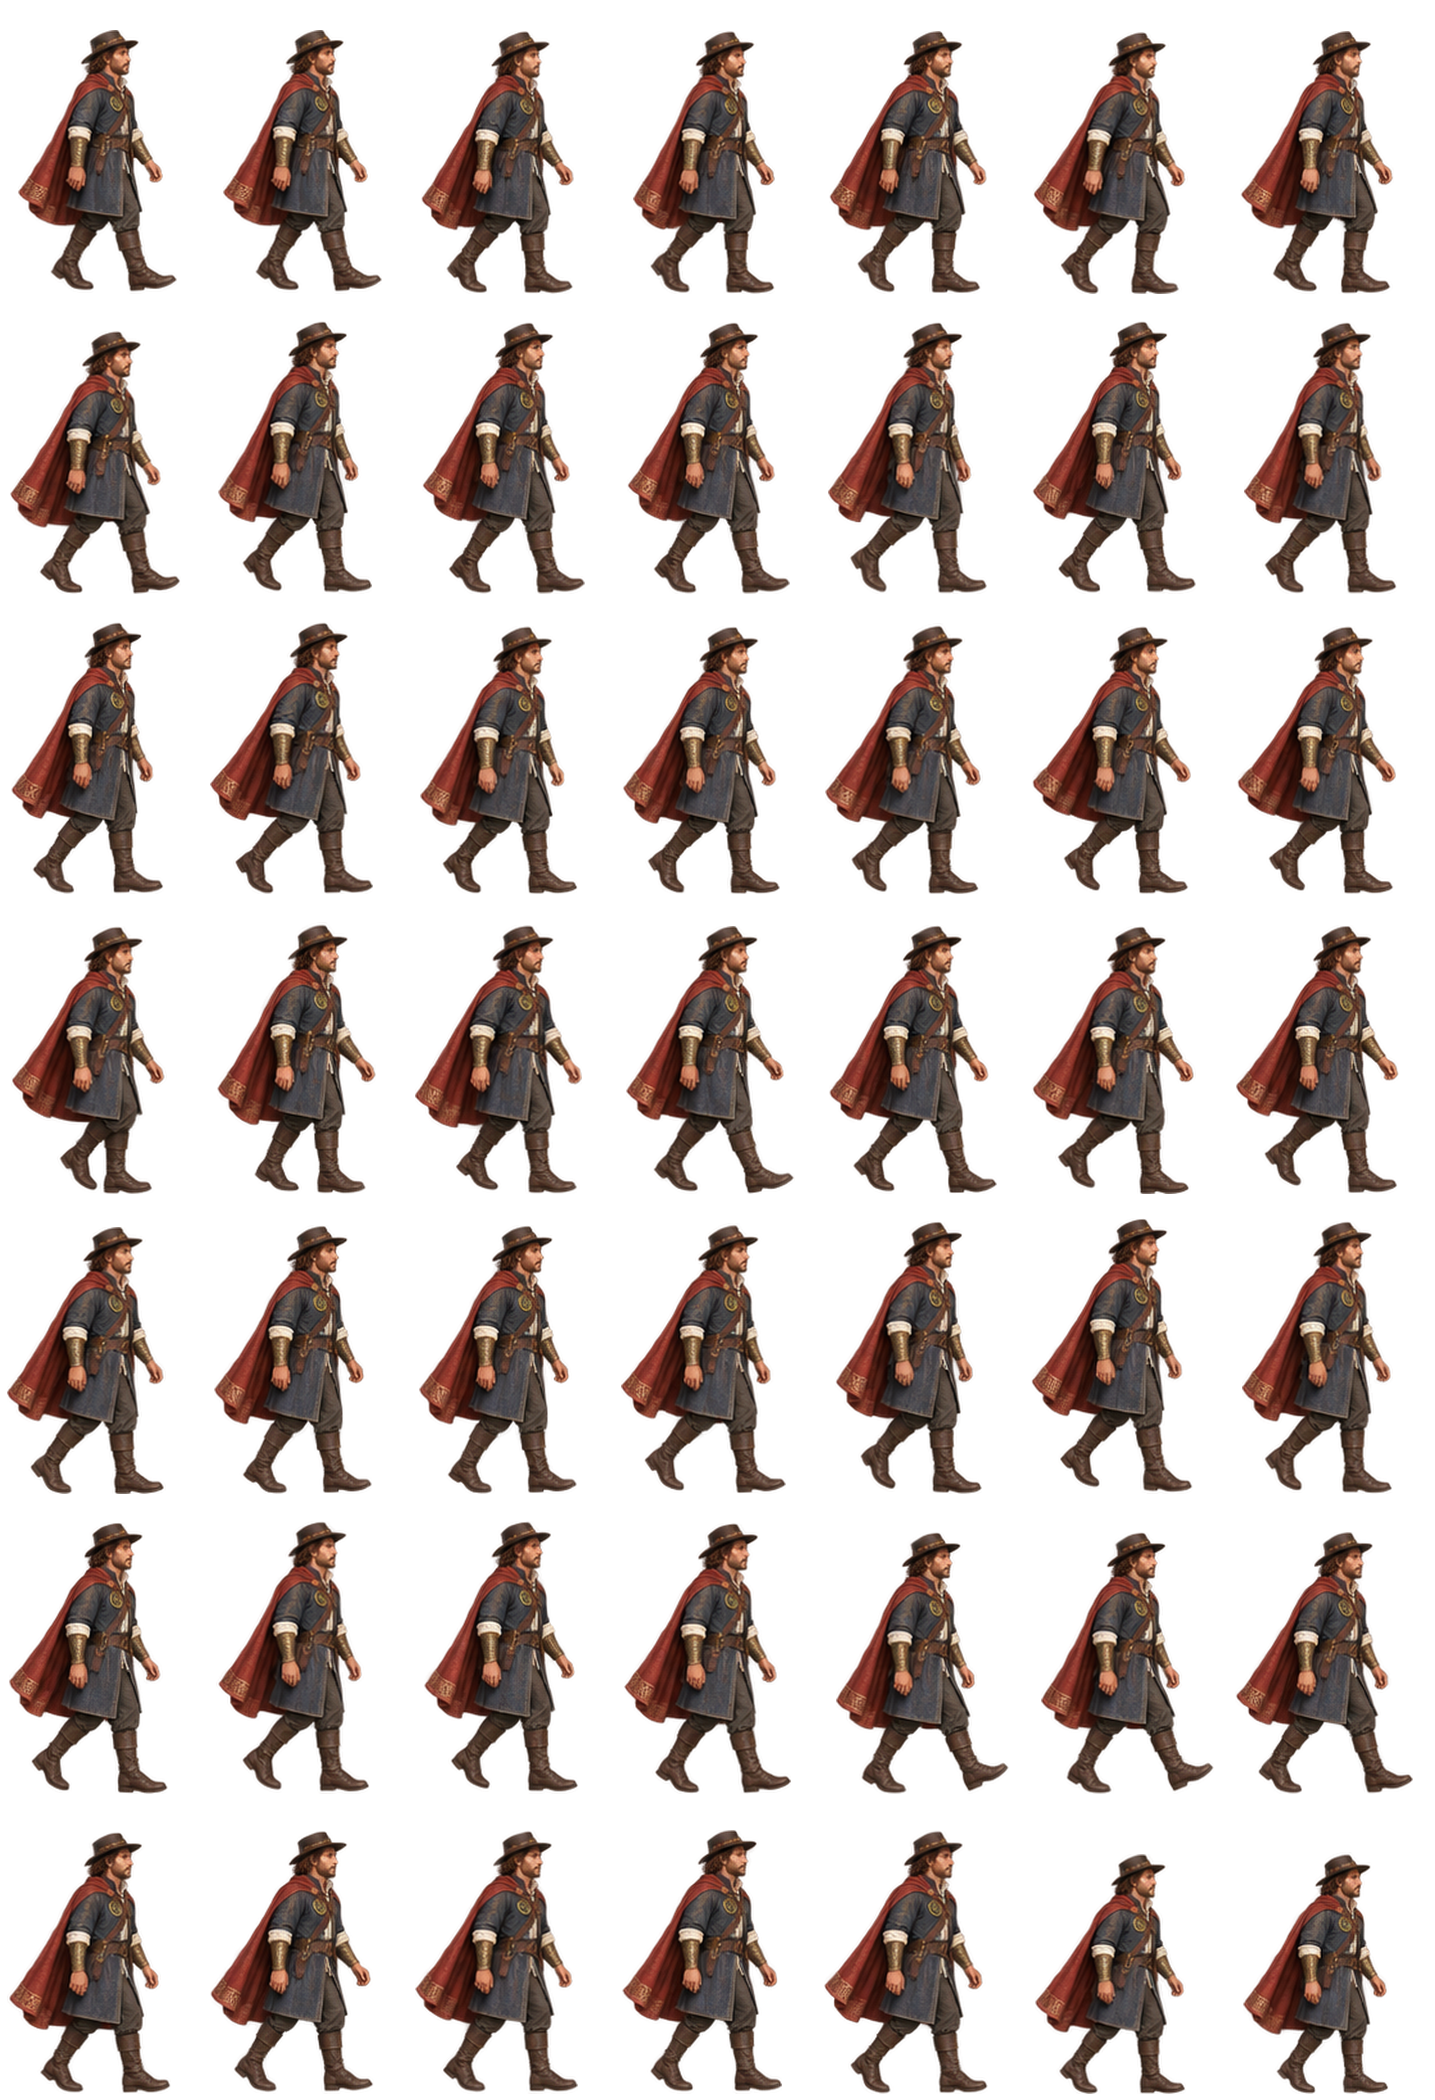
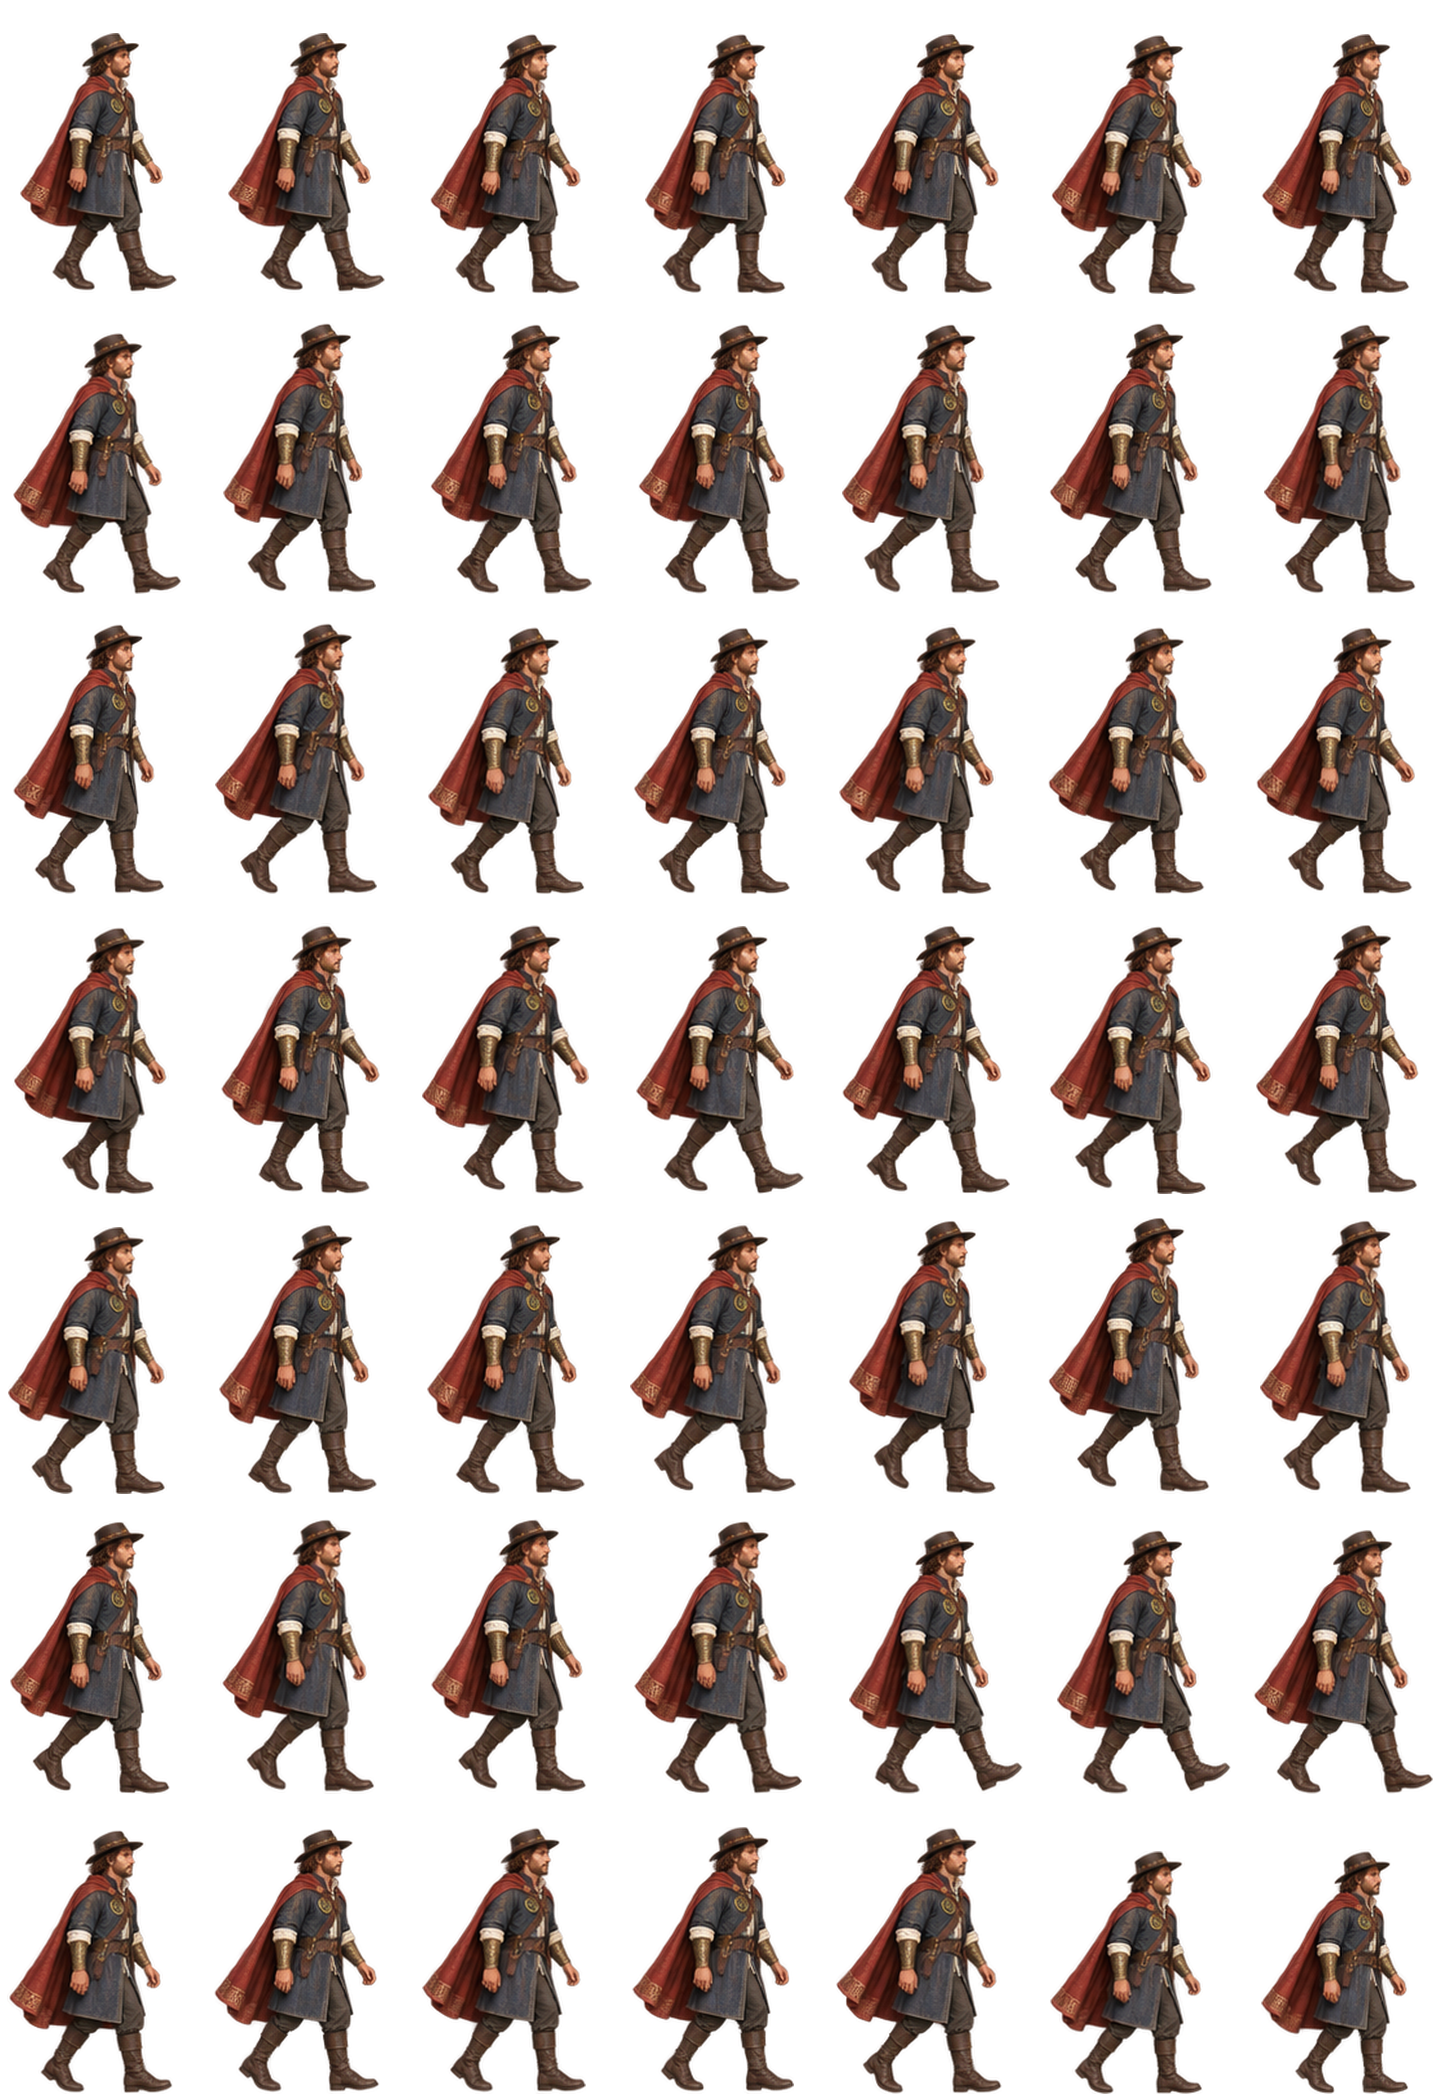
걷기·달리기: 돌 때마다 멈칫하던 것 · 크기가 조금씩 튀던 것
- 달리기 raw는 서 있다가 출발해 다시 서는 순서로 그려져, 되풀이하면 한 바퀴마다 멈칫했다 → 앞뒤의 서 있는 칸(발을 모은 칸이 둘 넘게 이어짐)을 뺀다
- ImageGen 시트는 칸이 지날수록 사람이 조금씩 커지거나 작아져(최대 8%) 되풀이 이음매에서 크기가 튀었다 → 걷기·달리기는 그 흐름을 펴서 키를 고르게
- tools/player_motion_runtime.py

Claude-Session: https://claude.ai/code/session_012fgJd5NNQo7zDNWg3SHxKr

diff --git a/tools/player_motion_runtime.py b/tools/player_motion_runtime.py
@@ -6,6 +6,7 @@ raw 동작 시트 → 게임용 7×7 아틀라스 (images/characters/<look>/moti
 - back: 돌아서는 동작 — 뒷모습이 된 뒤 다시 앞을 보는 칸은 뺀다 (머리 부분 살빛으로 판정)
 - 모두 오른쪽을 보게 맞춘다 (raw는 대부분 왼쪽을 보고, 중간에 반대로 그려진 칸도 있다)
 - 세 동작의 키를 맞춘다 (걷기·뒤돌기 = T, 달리기 = 0.94T) · 머리·몸통 가운데를 칸 가운데에 둔다
+- 걷기·달리기: 앞뒤의 서 있는 칸(출발·멈춤)을 빼고, 칸이 지날수록 커지거나 작아지는 흔들림을 편다 (되풀이할 때 멈칫·크기 튐 없게)
 - 칸 수가 49가 아니면 고르게 되풀이해 49칸을 채운다
 
 raw 시트(artifacts/player-motion-sheets/<look>/<motion>.raw.png)는 ImageGen이 그린 것이라 줄 수(5~7)·칸 수(35~49)·보는 쪽이 제각각이다.
@@ -123,6 +124,27 @@ def face_right(fr):
         left = x < -0.06 or (abs(x) <= 0.06 and major < 0)
         out.append(f.transpose(Image.Transpose.FLIP_LEFT_RIGHT) if left else f)
     return out, sum(1 for f, o in zip(fr, out) if f is not o)
+def feet_gap(f):
+    """두 발 사이 (키의 몇 할) — 발이 한 덩어리면 0"""
+    a = (np.asarray(f)[:, :, 3] > 100).astype(np.uint8); h = a.shape[0]; band = a[int(h * 0.93):]
+    n, lab, st, cen = cv2.connectedComponentsWithStats(band, 8)
+    cs = sorted([(st[i, cv2.CC_STAT_AREA], cen[i][0]) for i in range(1, n) if st[i, cv2.CC_STAT_AREA] > band.size * 0.004], reverse=True)
+    return abs(cs[0][1] - cs[1][1]) / h if len(cs) >= 2 else 0.0
+def trim_still(fr):
+    """되풀이 동작의 앞뒤에 붙은 '서 있는' 칸(발을 모은 채 두 칸 넘게 이어지는 칸)을 뺀다 — 돌 때마다 멈칫하지 않게.
+    raw 달리기는 대개 서 있다가 출발해 다시 서는 순서로 그려져 있다"""
+    g = [feet_gap(f) < 0.1 for f in fr]; a, b = 0, len(fr)
+    while a < b and g[a]: a += 1
+    while b > a and g[b - 1]: b -= 1
+    a = max(0, a - 1) if a >= 2 else 0          # 발을 모은 칸은 한 칸만 남긴다 (지나가는 자세)
+    b = min(len(fr), b + 1) if len(fr) - b >= 2 else len(fr)
+    return fr[a:b], (a, len(fr) - b)
+def drift_scale(fr):
+    """칸이 지날수록 그림이 조금씩 커지거나 작아진 것(ImageGen의 줌 흔들림)을 펴서, 되풀이할 때 크기가 튀지 않게 할 배율"""
+    h = np.array([f.height for f in fr], float); x = np.arange(len(h))
+    if len(h) < 4: return [1.0] * len(h)
+    k, c = np.polyfit(x, h, 1); trend = k * x + c
+    return list(h.mean() / trend)
 def pick_back(fr):
     """옆모습에서 시작해 뒷모습으로 끝나는 가장 그럴듯한 구간을 고른다 (raw 시트마다 돌아서는 순서가 제각각이다)"""
     n = len(fr); s = np.array([face_score(f) for f in fr]); v = np.array([facing(f) for f in fr])
@@ -161,7 +183,9 @@ def build(R, out, look):
         med = np.median([f.height for f in fr]); keep = [f for f in fr if not (f.info.get('edge') and f.height < 0.93 * med) and f.height >= 0.88 * med]
         info = {'raw_frames': len(fr), 'rows': rows, 'dropped_short': len(fr) - len(keep)}
         if mo == 'back': keep, n = pick_back(keep); info['back_range'] = n
-        else: keep, nf = face_right(keep); info['flipped'] = nf
+        else:
+            keep, nf = face_right(keep); info['flipped'] = nf
+            keep, cut = trim_still(keep); info['trimmed_still'] = cut
         seqs[mo] = keep; rep[mo] = info
     tgt = {'walk': T, 'run': T * 0.94, 'back': T}
     sc = {mo: tgt[mo] / np.median([f.height for f in seqs[mo]]) for mo in seqs}
@@ -169,8 +193,9 @@ def build(R, out, look):
     for mo, fr in seqs.items():
         s = sc[mo] * lim
         sprites = []
-        for f in fr:
-            g = f.resize((max(1, round(f.width * s)), max(1, round(f.height * s))), Image.Resampling.LANCZOS)
+        ds = drift_scale(fr) if mo != 'back' else [1.0] * len(fr)
+        for f, d in zip(fr, ds):
+            g = f.resize((max(1, round(f.width * s * d)), max(1, round(f.height * s * d))), Image.Resampling.LANCZOS)
             sprites.append((g, anchor(g)))
         half = max(max(ax, g.width - ax) for g, ax in sprites)
         cw = int(np.ceil(half * 2)) + 8
